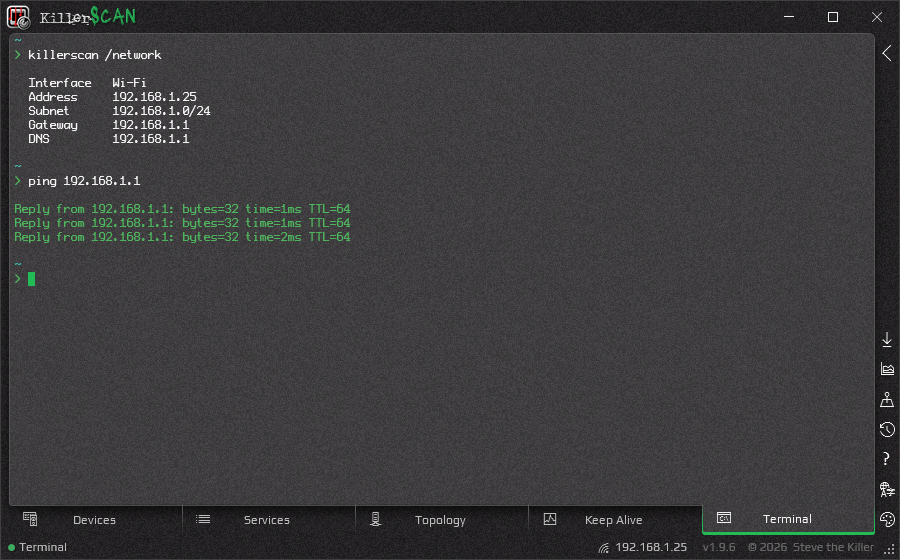
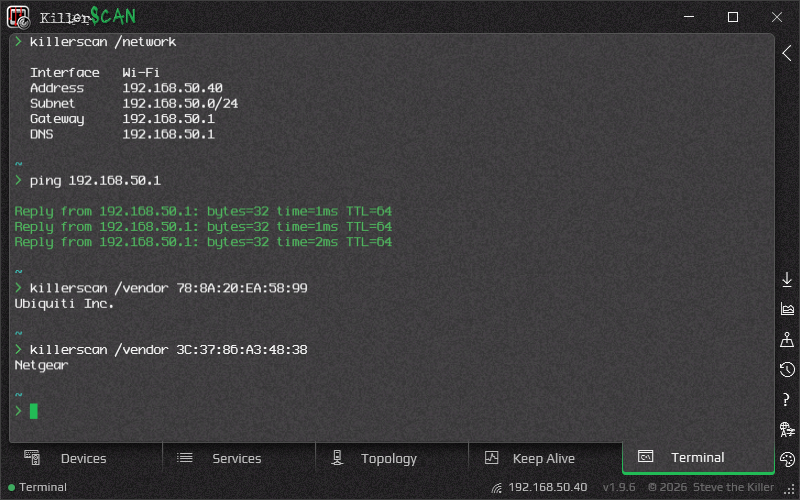
Theme the Trash Polka report table like the app and restore the CLI and report shots
The report's device table carries the app's screen ink, header line, row lines and stripes under Trash Polka. The demo terminal adds two vendor lookups so its shot is full, and the carousel gets the command-line and HTML report shots back.

diff --git a/scan-landing/index.html b/scan-landing/index.html
@@ -290,14 +290,17 @@ html[data-theme="light"] .blurb h3, html[data-theme="light"] .feature-card h3 { 
     'The Services view in Trash Polka with a Teal accent, at 110% app size.',
     'A saved History scan in Trash Polka with a Yellow accent, with the scan bar ready for a new scan.',
     'Keyboard shortcuts over the device list in Trash Polka with a Magenta accent.',
+    'An HTML report of the same scan, opening in its Trash Polka theme.',
     'The built-in terminal in the Dark theme, with the sidebar on the right.',
     'The device list in the Light theme with a Blue accent, at 90% app size.',
-    'The device list in the classic 98SE theme.'
+    'The device list in the classic 98SE theme.',
+    'killerscan /scan /demo in a Command Prompt, printing the device table.'
   ];
   var screenshotFiles = [
     '1.9.6-01-trash-polka-devices.png', '1.9.6-02-trash-polka-keep-alive.png', '1.9.6-03-trash-polka-topology.png',
     '1.9.6-04-trash-polka-services.png', '1.9.6-05-trash-polka-history.png', '1.9.6-06-trash-polka-shortcuts.png',
-    '1.9.6-07-dark-terminal.png', '1.9.6-08-light-devices.png', '1.9.6-09-98se-devices.png'
+    '1.9.6-11-html-report.png', '1.9.6-07-dark-terminal.png', '1.9.6-08-light-devices.png', '1.9.6-09-98se-devices.png',
+    '1.9.6-10-command-line.png'
   ];
   var MAX = descriptionsEn.length;
 

diff --git a/Services/ReportExport.cs b/Services/ReportExport.cs
@@ -160,8 +160,10 @@ namespace KillerScan.Services
             sb.AppendLine(".themesw button{width:18px;height:18px;border-radius:50%;border:2px solid var(--border);cursor:pointer;padding:0;outline:none;transition:transform .1s}");
             sb.AppendLine(".themesw button:hover{transform:scale(1.15)}.themesw button.active{border-color:var(--text)}");
             sb.AppendLine(".meta{color:var(--muted);font-size:13px;margin:0 0 18px}.meta b{color:var(--text)}");
-            sb.AppendLine(".tablewrap{overflow-x:auto;border:1px solid var(--border);border-radius:8px;background-color:var(--pane);background-image:radial-gradient(rgba(255,255,255,.035) .65px,transparent .75px);background-size:3px 3px;box-shadow:0 10px 30px rgba(0,0,0,.45)}");
-            sb.AppendLine("html.theme-se98 .tablewrap{border-radius:0;border-color:#000;background-image:linear-gradient(45deg,#f2f2f2 25%,transparent 25%,transparent 75%,#f2f2f2 75%),linear-gradient(45deg,#f2f2f2 25%,#fff 25%,#fff 75%,#f2f2f2 75%);background-position:0 0,1px 1px;background-size:2px 2px;box-shadow:none}");
+            sb.AppendLine(".tablewrap{overflow-x:auto;border:1px solid var(--border);border-radius:8px;background-color:var(--pane);background-image:radial-gradient(rgba(255,255,255,.035) .65px,transparent .75px);background-size:3px 3px}");
+            // The shadow sits on a frame around the table, so a theme can clip the table itself without losing it.
+            sb.AppendLine(".tableframe{border-radius:8px;box-shadow:0 10px 30px rgba(0,0,0,.45)}html.theme-se98 .tableframe{border-radius:0;box-shadow:none}");
+            sb.AppendLine("html.theme-se98 .tablewrap{border-radius:0;border-color:#000;background-image:linear-gradient(45deg,#f2f2f2 25%,transparent 25%,transparent 75%,#f2f2f2 75%),linear-gradient(45deg,#f2f2f2 25%,#fff 25%,#fff 75%,#f2f2f2 75%);background-position:0 0,1px 1px;background-size:2px 2px}");
             sb.AppendLine("table{border-collapse:collapse;width:100%;min-width:760px}");
             sb.AppendLine("th{background:var(--surface);color:var(--muted);text-align:left;padding:10px 14px;font-size:12px;font-weight:600;font-family:Consolas,monospace;letter-spacing:.3px;position:sticky;top:0;white-space:nowrap;cursor:pointer;user-select:none}");
             sb.AppendLine("th:hover{color:var(--text)}th .arrow{display:inline-block;width:10px;font-size:10px;opacity:.7}");
@@ -187,7 +189,22 @@ namespace KillerScan.Services
                 sb.Append("html.theme-trashpolka body::before{background:url(").Append(wallpaper.InkUri).AppendLine(") center/cover no-repeat}");
                 sb.Append("html.theme-trashpolka body::after{--tpmask:url(").Append(wallpaper.CoverageUri)
                   .AppendLine(");background:var(--accent);-webkit-mask:var(--tpmask) center/cover no-repeat;mask:var(--tpmask) center/cover no-repeat}");
-                sb.AppendLine("@media print,(forced-colors:active){html.theme-trashpolka body::before,html.theme-trashpolka body::after{display:none}}");
+                // The device table is a screen, as in the app: the same ink runs through it at screen strength. The layers
+                // are fixed to the viewport like the page's, so they line up with the ink around the table, and the
+                // table's clip keeps them inside it. The header stays a solid band over them.
+                string screen = KillerScan.Controls.TrashPolkaInk.ScreenOpacity.ToString("0.###", System.Globalization.CultureInfo.InvariantCulture);
+                sb.AppendLine("html.theme-trashpolka .tablewrap{position:relative;isolation:isolate;clip-path:inset(0 round 8px)}");
+                sb.Append("html.theme-trashpolka .tablewrap::before,html.theme-trashpolka .tablewrap::after{content:'';position:fixed;inset:0;z-index:-1;pointer-events:none;opacity:")
+                  .Append(screen).AppendLine("}");
+                sb.Append("html.theme-trashpolka .tablewrap::before{background:url(").Append(wallpaper.InkUri).AppendLine(") center/cover no-repeat}");
+                sb.Append("html.theme-trashpolka .tablewrap::after{background:var(--accent);-webkit-mask:url(").Append(wallpaper.CoverageUri)
+                  .Append(") center/cover no-repeat;mask:url(").Append(wallpaper.CoverageUri).AppendLine(") center/cover no-repeat}");
+                // The app's table colors: an accent line under the grained header, #555555 row lines (PaneBorderBrush) and
+                // every other row lifted by RowAltBrush (#18FFFFFF).
+                sb.AppendLine("html.theme-trashpolka th{border-bottom:1px solid var(--accent);background-image:radial-gradient(rgba(255,255,255,.035) .65px,transparent .75px);background-size:3px 3px}");
+                sb.AppendLine("html.theme-trashpolka td{border-top-color:#555555}html.theme-trashpolka tbody tr:first-child td{border-top:0}");
+                sb.AppendLine("html.theme-trashpolka tbody tr:nth-child(even) td{background:rgba(255,255,255,.094)}html.theme-trashpolka tbody tr:hover td{background:var(--hover)}");
+                sb.AppendLine("@media print,(forced-colors:active){html.theme-trashpolka body::before,html.theme-trashpolka body::after,html.theme-trashpolka .tablewrap::before,html.theme-trashpolka .tablewrap::after{display:none}}");
             }
             sb.AppendLine("</style></head><body><div class='wrap'>");
 
@@ -223,7 +240,7 @@ namespace KillerScan.Services
             sb.AppendLine($"<p class='meta'>{Esc(L("Str_Rep_Subnet", "Subnet"))} <b>{Esc(subnetText)}</b> &middot; {Esc(L("Str_Rep_Scanned", "Scanned"))} <b>{scannedAt.ToString("yyyy-MM-dd HH:mm", System.Globalization.CultureInfo.InvariantCulture)}</b> &middot; <b>{list.Count}</b> {Esc(L("Str_Rep_Devices", "devices"))}{status}</p>");
 
             // The report's headers reuse the grid's own column keys, so the two never disagree.
-            sb.AppendLine("<div class='tablewrap'><table id='tbl'><thead><tr>");
+            sb.AppendLine("<div class='tableframe'><div class='tablewrap'><table id='tbl'><thead><tr>");
             // Each header holds a real button, so it takes keyboard focus and sorts on Enter and Space.
             sb.AppendLine($"<th data-type='num'><button type='button' class='sortbtn'>{Esc(L("Str_Col_Ip", "IP Address"))} <span class='arrow' aria-hidden='true'></span></button></th>");
             sb.AppendLine($"<th data-type='text'><button type='button' class='sortbtn'>{Esc(L("Str_Col_Host", "Hostname"))} <span class='arrow' aria-hidden='true'></span></button></th>");
@@ -248,7 +265,7 @@ namespace KillerScan.Services
                     // Hovering the ports lists each endpoint and what it answered.
                     $"<td class='mono' title='{Esc(string.Join("\n", DeviceAccess.ForDevice(d).Select(AccessWording.Item)))}'>{Esc(d.OpenPortsDisplay)}</td></tr>");
             }
-            sb.AppendLine("</tbody></table></div>");
+            sb.AppendLine("</tbody></table></div></div>");
 
             // The app name stays outside the translated span - it is the link text and a proper noun.
             sb.AppendLine($"<p class='footer'>{Esc(L("Str_Rep_GeneratedBy", "Generated by"))} <a href='{AppInfo.SiteUrl}' target='_blank' rel='noopener'>KillerScan</a> &middot; &copy; 2026 Steve the Killer</p>");

diff --git a/tests/SpeedTest.Tests/SiteShots.cs b/tests/SpeedTest.Tests/SiteShots.cs
@@ -79,7 +79,7 @@ internal static class SiteShots
         Shot("04-trash-polka-services", Theme.TrashPolka, Accent.Teal, false, () => Invoke(window, "ServicesButton_Click", window, new RoutedEventArgs()),
             width: 960, height: 640, scale: 1.1);
         Shot("05-dark-terminal", Theme.Dark, Accent.Green, true, () => Invoke(window, "NewTerminalView"), 1500,
-            width: 900, height: 560, sidebarRight: true);
+            width: 800, height: 500, scale: 1.1, sidebarRight: true);
         Shot("06-light-devices", Theme.Light, Accent.Blue, false, () => { Devices(); Pump(300); SelectRow(9); },
             width: 1060, height: 660, scale: 0.9);
         Shot("07-98se-devices", Theme.SE98, Accent.Blue, true, () => { Devices(); Pump(300); SelectRow(2); },
@@ -94,6 +94,17 @@ internal static class SiteShots
         Shot("09-trash-polka-shortcuts", Theme.TrashPolka, Accent.Magenta, false, () => { Devices(); Pump(300); Invoke(window, "ShowShortcuts"); },
             width: 1240, height: 800);
         ((FrameworkElement)window.FindName("ShortcutsOverlay")).Visibility = Visibility.Collapsed;
+        // The HTML report of the same demo scan, opening in Trash Polka; a headless browser captures it afterwards.
+        if (scan.GetType().GetField("_active", Any)?.GetValue(scan) is { } run
+            && run.GetType().GetProperty("Devices")?.GetValue(run) is System.Collections.IEnumerable devices)
+        {
+            // The demo network is random per run, so the subnet line comes from the scan's own addresses.
+            var list = devices.Cast<KillerScan.Engine.NetworkDevice>().ToList();
+            string first = list.OrderBy(x => x.IpSortKey).First().IpAddress;
+            string subnet = first.Substring(0, first.LastIndexOf('.')) + ".0/24";
+            File.WriteAllText(Path.Combine(dir, "10-trash-polka-report.html"), ReportExport.BuildHtml(list, subnet, "trashpolka"));
+            Console.WriteLine("10-trash-polka-report: HTML report in Trash Polka");
+        }
         window.Close();
         Console.WriteLine("PASS: site shots saved to " + dir);
     }

diff --git a/Services/DemoData.cs b/Services/DemoData.cs
@@ -242,9 +242,17 @@ namespace KillerScan.Services
                 $"{green}Reply from {scan.Gateway}: bytes=32 time=1ms TTL=64{off}",
                 $"{green}Reply from {scan.Gateway}: bytes=32 time=2ms TTL=64{off}",
                 "",
-                $"{cyan}~{off}",
-                $"{green}>{off} ",
             };
+            // Two vendor lookups on the fabricated devices fill the rest of the pane with the CLI's own output.
+            foreach (var device in scan.Devices.Where(d => d.MacAddress.Length > 0 && d.Vendor.Length > 0).Take(2))
+            {
+                lines.Add($"{cyan}~{off}");
+                lines.Add($"{green}>{off} killerscan /vendor {device.MacAddress}");
+                lines.Add(device.Vendor);
+                lines.Add("");
+            }
+            lines.Add($"{cyan}~{off}");
+            lines.Add($"{green}>{off} ");
             return string.Join("\r\n", lines);
         }
 

diff --git a/CHANGELOG.md b/CHANGELOG.md
@@ -51,7 +51,7 @@ Format follows [Keep a Changelog](https://keepachangelog.com/en/1.1.0/) and this
 - The terminal's `scanhistory` command returns saved scans as objects, and `scanhistory -Run 1 -Compare` returns what changed since its baseline. `netinfo` also returns the adapter, whether it is wireless and its link speed.
 - The terminal has `pinghost`, `trace`, `diagnose`, `watch` and `speedtest`, which return objects. `pinghost` leaves the Windows `ping` command alone.
 - `killerscan /help` lists the ping, trace, diagnose and watch options with their limits and defaults, and the history options.
-- Trash Polka, a new theme under 98SE: black with a tattoo-style ink background in your accent color, from eight accents with Blood red as the default. The ink runs behind every view, through the active tab into the page at any app size, under the Keep Alive cards, which sit as dark inked bars over it, and across About, Keyboard shortcuts and the dialogs. It sits fainter behind the Devices and Services tables and the terminal so every row stays readable, and a selected table row shows light text in every accent. Under a Windows high contrast theme the ink and the tab shade step aside for the system colors. The ink is saved to disk and prepared in the background shortly after KillerScan starts, so switching to Trash Polka is quick, and its memory is released when you pick another theme. Clearing out older saved ink only touches the files KillerScan wrote in its own Motif folder. HTML reports saved under it open in its black and blood red with the same ink behind the page, every report offers it in the theme switcher, and the command line takes `/theme trashpolka`.
+- Trash Polka, a new theme under 98SE: black with a tattoo-style ink background in your accent color, from eight accents with Blood red as the default. The ink runs behind every view, through the active tab into the page at any app size, under the Keep Alive cards, which sit as dark inked bars over it, and across About, Keyboard shortcuts and the dialogs. It sits fainter behind the Devices and Services tables and the terminal so every row stays readable, and a selected table row shows light text in every accent. Under a Windows high contrast theme the ink and the tab shade step aside for the system colors. The ink is saved to disk and prepared in the background shortly after KillerScan starts, so switching to Trash Polka is quick, and its memory is released when you pick another theme. Clearing out older saved ink only touches the files KillerScan wrote in its own Motif folder. HTML reports saved under it open in its black and blood red with the same ink behind the page and a device table styled like the app's, every report offers it in the theme switcher, and the command line takes `/theme trashpolka`.
 - The file picker has a New folder button (Ctrl+Shift+N). It checks the name first and says what is wrong with it before anything is created. A share that stops answering never freezes the picker, and screen readers hear why a name was refused.
 - The device card can be customized: Customize hides tiles you never use and brings them back, and the layout is kept for next time.
 - The service, History row and terminal cards can be customized the same way. A few rarely used tiles start in the Hidden drawer, such as SSH as, Copy details and Font.
